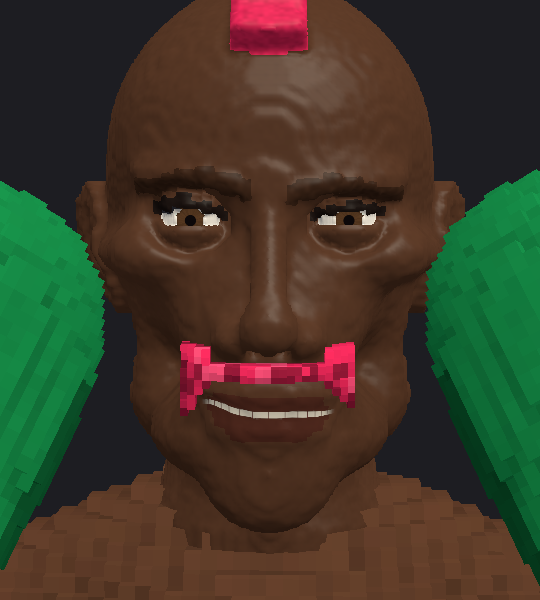
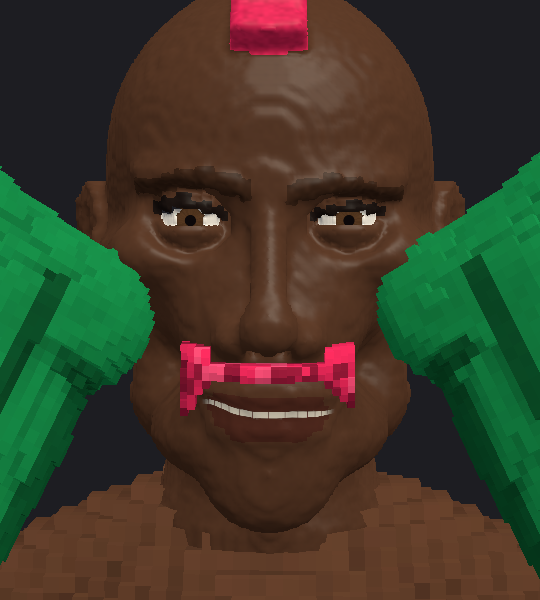
Эмоции соперников: замер A/B с чередованием (EmotionBench), seed 77 с мимикой и без, снимки поверх рук и тела, отчёт EMOTIONS.md

diff --git a/Unity/Assets/Game/Editor/EmotionShots.cs b/Unity/Assets/Game/Editor/EmotionShots.cs
@@ -240,5 +240,82 @@ namespace VoxGame.Editor
             EmotionsLog = log.ToString().TrimEnd();
             Debug.Log(EmotionsLog);
         }
+
+        // Замер A/B «без мимики | с мимикой» с чередованием (как ARMS-BODY.md): 6 боёв в порядке без, с, с, без, без, с,
+        // по 40 ударов; кадр удара — lastHitFrameMs, кадр боя — d.Tick без удара, отрисовка 1080×2400 с ожиданием GPU каждый 5-й кадр.
+        // Отдельно — своё время мимики (FoeFace.Tick + Apply) и выделения памяти на него за 3000 кадров.
+        public static void EmotionBench(int hits = 40)
+        {
+            bool wasA = AnatFace.Enabled, wasF = FoeFace.Enabled;
+            var log = new StringBuilder();
+            var hit = new Dictionary<bool, List<double>> { { false, new List<double>() }, { true, new List<double>() } };
+            var frame = new Dictionary<bool, List<double>> { { false, new List<double>() }, { true, new List<double>() } };
+            var rend = new Dictionary<bool, List<double>> { { false, new List<double>() }, { true, new List<double>() } };
+            var tris = new Dictionary<bool, int> { { false, 0 }, { true, 0 } };
+            try
+            {
+                int r = 0;
+                foreach (bool on in new[] { false, true, true, false, false, true })
+                {
+                    AnatFace.Enabled = on; FoeFace.Enabled = on;
+                    var h1 = new List<double>(); var f1 = new List<double>(); var r1 = new List<double>();
+                    var d = NewFight(out var bcam, out _, 6f, 4f);
+                    d.SetViewSize(1080, 2400);
+                    var rt = new RenderTexture(1080, 2400, 24, RenderTextureFormat.ARGB32);
+                    var px = new Texture2D(1, 1, TextureFormat.RGB24, false);
+                    var run = new Run { d = d };
+                    run.Ticks(90);
+                    tris[on] = d.Head.Triangles;
+                    var combo = new[] { PunchType.Hook, PunchType.Jab, PunchType.Upper, PunchType.Jab };
+                    int got = 0, tries = 0;
+                    var tsw = new System.Diagnostics.Stopwatch();
+                    while (got < hits + WarmHits && tries < hits * 4 && !d.Finished)
+                    {
+                        tries++;
+                        run.WaitOpen(150);
+                        int seq = d.hitFrameSeq;
+                        run.Punch(combo[tries % combo.Length], tries % 2 == 0 ? 1 : -1);
+                        run.Tick();
+                        if (d.hitFrameSeq != seq) { if (got >= WarmHits) h1.Add(d.lastHitFrameMs); got++; }
+                        for (int i = 0; i < 20; i++)
+                        {
+                            int s2 = d.hitFrameSeq;
+                            tsw.Restart(); d.Tick(DT); tsw.Stop();
+                            if (d.hitFrameSeq == s2 && got > WarmHits) f1.Add(tsw.Elapsed.TotalMilliseconds);
+                            if (i % 5 == 0 && got > WarmHits)
+                            {
+                                bcam.targetTexture = rt; RenderTexture.active = rt;
+                                tsw.Restart(); bcam.Render(); px.ReadPixels(new Rect(0, 0, 1, 1), 0, 0); tsw.Stop();
+                                bcam.targetTexture = null; RenderTexture.active = null;
+                                r1.Add(tsw.Elapsed.TotalMilliseconds);
+                            }
+                        }
+                    }
+                    log.AppendLine("EMO_BENCH run=" + (r++) + " on=" + on + " hits=" + h1.Count + " hitFrame " + Dist(h1) + " | fightFrame " + Dist(f1) + " | render " + Dist(r1));
+                    hit[on].AddRange(h1); frame[on].AddRange(f1); rend[on].AddRange(r1);
+                    // своё время мимики в этом же бою (только «с»)
+                    if (on && r == 2)
+                    {
+                        var ff = d.FoeMimic; var st = d.State;
+                        for (int i = 0; i < 200; i++) { ff.Tick(DT, st); ff.Apply(d.Head); }
+                        long b0 = System.GC.GetAllocatedBytesForCurrentThread();
+                        tsw.Restart();
+                        for (int i = 0; i < 3000; i++) { if (i % 90 == 0) ff.OnHit(i % 3, false, (int)AnatZone.Cheek, false, false, 1); ff.Tick(DT, st); ff.Apply(d.Head); }
+                        tsw.Stop();
+                        long b1 = System.GC.GetAllocatedBytesForCurrentThread();
+                        log.AppendLine("EMO_BENCH face Tick+Apply " + (tsw.Elapsed.TotalMilliseconds / 3000).ToString("0.0000") + " ms/frame, alloc " + (b1 - b0) + " B / 3000 frames");
+                    }
+                    rt.Release(); Object.DestroyImmediate(rt); Object.DestroyImmediate(px);
+                    EndFight(d);
+                }
+            }
+            finally { AnatFace.Enabled = wasA; FoeFace.Enabled = wasF; AnatFace.Off(); }
+            foreach (bool on in new[] { false, true })
+                log.AppendLine("EMO_BENCH on=" + on + " headTris=" + tris[on] + " hitFrame " + Dist(hit[on]) + " | fightFrame " + Dist(frame[on]) + " | render " + Dist(rend[on]));
+            EmotionsLog = log.ToString().TrimEnd();
+            var p = Path.GetFullPath(Path.Combine(Application.dataPath, "..", "Logs", "emo-bench.txt"));
+            File.WriteAllText(p, EmotionsLog);
+            Debug.Log(EmotionsLog);
+        }
     }
 }

diff --git a/Unity/EMOTIONS.md b/Unity/EMOTIONS.md
@@ -1,15 +1,149 @@
-# Эмоции соперников (мимика) — WIP
+# Эмоции соперников (мимика)
 
-Ветка `claude/foe-emotions-343e1d`. Трекер: `goals voxel-boxing` дважды ответил «Quota exceeded» — цель «Эмоции соперников» не создана, повторить.
+Ветка `claude/foe-emotions-343e1d`, поверх `origin/main` с руками и телом (`cd8088f`) и плашкой удара (`d7f8aff`). Цель в трекере «Эмоции соперников» создана и взята (`ruslan`); этап и пост в канал — за сессией слияния.
 
-## Пауза 26.11
+## Что сделано
 
-**Прочитано и решено.** Мимика — деформация вершин в шейдере `Anatomy` от позы покоя (как изгиб шеи `AnatSkin`): решётка вокселей и модель повреждений не меняются, поэтому выбитое не «отрастает», на уцелевшем мимика остаётся, перестройки сеток нет, seed 77 по ударам и кускам не должен сдвинуться. Тела головы получают роль по номеру: мягкая голова (брови, веки поворотом вокруг глаза — скользят по яблоку, щёки, нос, губы, челюсть под швом губ), нижняя челюсть и нижние зубы (поворот вокруг оси суставов), глаза (взгляд, расфокус), верхние зубы жёстко; оторванные куски (тело ≥ 100) не двигаются. Открытый рот рисуется на растянутых гранях шва губ (полость, верхние и нижние зубы, выбитый зуб — щель). На лице грани не склеиваются (`AnatMesher.StyleFace`), иначе длинные прямоугольники не гнутся — это меняет число треугольников головы при включённой мимике.
+13 выражений: спокойное, сосредоточенное, злость, оскал, ухмылка, удивление, боль, оглушён, страх, усталость, торжество, поражение, презрение. Каждое — набор из 24 каналов: брови (внутренний и внешний край слева и справа, свод), веки (верхние и нижние), взгляд и расфокус, челюсть (открытие и сдвиг вбок), углы рта, ширина рта, верхняя и нижняя губа, сжатие губ, нос, щёки. Фоном идут моргание (частота по характеру), дыхание ртом (чаще и глубже при усталости), блуждание взгляда. Выражения смешиваются пружинами с критическим затуханием, поэтому переходы без скачков. У события есть приоритет и длительность: слабое не перебивает сильное, нокдаун, нокаут и финал держатся до снятия. По окончании события лицо возвращается к настрою покоя, который зависит от характера и здоровья.
 
-**Сделано (код компилируется, не закоммичено до этой паузы):**
-- `Assets/Probe/Runtime/Anatomy/AnatFace.cs` — 13 выражений (спокойное, сосредоточенное, злость, оскал, ухмылка, удивление, боль, оглушён, страх, усталость, торжество, поражение, презрение), 24 канала, смесь пружинами без скачков, событие с приоритетом и длительностью, фон (моргание, дыхание ртом, взгляд), характеры `AnatTemper.Presets` (8), `Deform` на C# = функция `Face` в шейдере.
-- `Shaders/Anatomy.shader` — `Face()` до `Skin()`, рисунок рта; `AnatMesher`/`AnatSkin`(`InFace`)/`AnatRender` — `StyleFace`; `AnatView` — `AnatFace.Off()` у новой головы.
-- Игра: `FoeFace.cs` (события боя → выражения), вызовы в `FightDirector.cs`, `FighterGen.TemperOf` (характер по прозвищу), `HeadGear.cs` — борода в две части, нижняя ходит с челюстью (`SetJaw`). `FoeBody.cs` не тронут.
-- Снимки: `Assets/Game/Editor/EmotionShots.cs` (лист, характеры, повреждённая голова, бой). Первый лист `Shots/emotions/sheet.png` снят и просмотрен: выражения различимы крупным планом; размах после этого увеличен (челюсть, губы, углы рта, брови), подъём века уменьшен (поднятое веко открывало дыру над яблоком).
+**Способ.** Мимика — деформация вершин в шейдере `VoxProbe/Anatomy` от позы покоя, до изгиба шеи (`Skin`). Решётка вокселей и модель повреждений не меняются. Поэтому выбитое не «отрастает», уцелевшее продолжает двигаться, перестройки сеток в кадре нет, а результат ударов (seed 77) тот же. Тело головы получает роль по номеру:
+- мягкая голова: брови, веки (поворот вокруг центра глаза, скользят по яблоку), щёки, нос, губы, челюсть под швом губ;
+- нижняя челюсть с нижними зубами: поворот вокруг оси суставов;
+- глаза: взгляд и расфокус;
+- верхние зубы: жёстко.
 
-**Следующий шаг:** открыть редактор worktree (закрылся сам), снять `EmotionShots` целиком и проверить глазами с боевой дистанции; тесты на эмоции (каждое выражение меняет геометрию, переход без скачка, событие → выражение, повреждение не восстанавливается); полные тесты ×2; seed 77 (с `AnatFace.Enabled=false` и с мимикой); замер кадра до/после; отчёт.
+Оторванные куски не двигаются. Открытый рот рисуется на растянутых гранях шва губ: полость, верхние и нижние зубы, на месте выбитого зуба щель. На лице грани не склеиваются (`AnatMesher.StyleFace`), иначе длинные прямоугольники не гнутся; это добавляет около 180 треугольников целой голове.
+
+## Где параметры
+
+| Что | Где |
+|---|---|
+| Выражения (позы каналов), размеры смещений, пружина, моргание, дыхание | `Assets/Probe/Runtime/Anatomy/AnatFace.cs` — `AnatFace.Poses`, константы `BrowUp…Cheek`, `omega` |
+| Характеры (8 предустановок) | там же, `AnatTemper.Presets`, рядом с `AnatLook` |
+| Характер бойца лестницы | `FighterGen.TemperOf` (по прозвищу, разброс силы и моргания по хешу) |
+| Событие боя → выражение | `Assets/Game/Runtime/Presentation/FoeFace.cs` |
+| Деформация на GPU | `Shaders/Anatomy.shader`, функция `Face()` (числа размеров дублируются литералами — менять в обоих местах) |
+| Выключатели для замеров | `AnatFace.Enabled`, `FoeFace.Enabled` |
+
+## Событие → выражение
+
+| Событие боя | Выражение (приоритет) | Затем |
+|---|---|---|
+| джеб в голову | боль слабая, сильнее в глаз или нос (2) | злой — злость, задира — иногда ухмылка |
+| силовой удар | боль (3); глаз со стороны удара зажмурен сильнее | в челюсть или встречный — оглушён; иначе страх, злость или сосредоточенное по характеру |
+| мега, перелом, сила ≥ 2 | боль с рывком (4) | оглушён 1,5 с |
+| игрок промахнулся или попал в блок | ухмылка или презрение по характеру, иначе сосредоточенное (2) | — |
+| свой удар попал | торжество (пробил блок или шоумен) или ухмылка (2); в блок — злость или сосредоточенное | — |
+| игрок увернулся | нервный — удивление, остальные — злость (2) | — |
+| замах | злость (злые) или сосредоточенное (1) | — |
+| выпад | оскал (злые) или сосредоточенное (1) | — |
+| мало здоровья | настрой: усталость, у нервных при почти нуле — страх; дыхание ртом; мелкие события слабее | — |
+| нокдаун | оглушён, держится (5) | подъём: усталость, затем злость или страх |
+| нокаут | оглушён, держится (6) | — |
+| финал | торжество или поражение (7) | — |
+
+## Характеры
+
+| Характер | Покой | Ухмылка | Злость | Страх | Показ | Бойцы лестницы |
+|---|---|---|---|---|---|---|
+| хладнокровный | сосредоточенное | 0,3 | 0,2 | 0,15 | 0,2 | Лёд, Призрак |
+| задира | ухмылка | 1,0 | 0,4 | 0,3 | 0,8 | Кулак, Гром |
+| злой | злость | 0,2 | 1,0 | 0,2 | 0,5 | Огонь, Медведь |
+| шоумен | ухмылка | 0,7 | 0,3 | 0,4 | 1,0 | Рыцарь |
+| нервный | страх | 0,2 | 0,3 | 1,0 | 0,4 | Лом |
+| угрюмый | сосредоточенное | 0,1 | 0,6 | 0,3 | 0,2 | Зубр |
+| зверь | злость | 0,3 | 0,9 | 0,1 | 0,7 | Молот, Волк |
+| каменный | спокойное | 0,15 | 0,2 | 0,1 | 0,15 | Утёс |
+
+## Тесты
+
+Новые: `AnatomyFaceTests` (6) и `FoeFaceTests` (5).
+- `EachExpressionDistinct`: каждое выражение двигает лицо. Самая близкая пара — сосредоточенное и злость, 0,94 мм RMS; наибольший сдвиг от 5,7 мм (сосредоточенное) до 21 мм (удивление).
+- `TransitionsSmooth`: удар посреди ухмылки, оскал, удивление, нокдаун, скачок усталости. Шаг точки за кадр 1/60 до 3,49 мм, за 1/240 до 0,88 мм. Шаг уменьшается вместе с кадром, значит скачков нет.
+- `BlinkContinuous`: шаг канала века за кадр до 0,43.
+- `PriorityAndDuration`: проверка приоритета и длительности.
+- `DamageStaysAndNoAlloc`: решётка, треугольники и грязные чанки не меняются от мимики, 0 байт за 600 кадров, с оторванной челюстью канал челюсти 0.
+- `ShaderMovesFace`: рендер меняется на 4–5 % пикселей лица.
+- `FoeFaceTests`: удар, сила и место, насмешки по характеру, нокдаун, подъём, нокаут и финал, мало здоровья, разнообразие характеров в лестнице.
+
+Полные прогоны (редактор, поверх свежего `main`):
+
+| Прогон | VoxGame | Анатомия |
+|---|---|---|
+| 1 | 240 / 0 | 70 / 1 (`StumpMuscleLayersRender`) |
+| 2 | 240 / 0 | 70 / 1 (`StumpMuscleLayersRender`) |
+| 3 (анатомия отдельно) | — | 71 / 0 |
+| 4 (анатомия отдельно) | — | 71 / 0 |
+
+Прежде было 232 и 65; добавились 5 + 6 моих тестов и 3 + 0 из `main`.
+
+**Причина «нестабильного» `StumpMuscleLayersRender` найдена, она не от мимики.** `FightDirector` (уже в `main`, строка `AnatSkin.on = true`) включает изгиб шеи и не выключает его. Если тесты анатомии идут в том же редакторе после тестов игры, `Pick` в сценарии seed 77 идёт по согнутой шее, и выходит 75 ударов вместо 78 («Expected: 78 But was: 75»). Отдельно тест проходит и с мимикой, и без неё. Лечение: сбрасывать `AnatSkin.on`, `pose`, `recoil` в `FightDirector.Dispose` или в начале теста. Чужой файл, я не правил — это предложение для следующей задачи.
+
+## Seed 77 (`AnatShotsB2.Run`, `AnatSkin.on=false`)
+
+| | без мимики | с мимикой |
+|---|---|---|
+| удары | 78 | 78 |
+| треугольники по стадиям | 147 880 / 149 586 / 157 850 / 156 238 / 51 928 | **148 018** / 149 586 / 157 850 / 156 238 / 51 928 |
+| треугольники кусков | 75 212 | 75 212 |
+| целая голова | 131 858 | 132 042 |
+
+Удары, куски и культя — как в задании. С мимикой +138 треугольников на первой стадии, пока лицо цело: грани лица не склеиваются (`StyleFace`). После стадии «лицо» разница пропадает.
+
+## Время (A/B с чередованием, как в ARMS-BODY.md)
+
+`ShotsTaker.EmotionBench()`: 6 боёв в порядке без, с, с, без, без, с, по 40 ударов (3 на прогрев не в зачёт). Выключались `AnatFace.Enabled` и `FoeFace.Enabled`. Кадр удара — `lastHitFrameMs`, кадр боя — `d.Tick` без удара, отрисовка 1080×2400 с ожиданием GPU. Средние, мс:
+
+| | без мимики | с мимикой | Δ |
+|---|---|---|---|
+| кадр боя (2 805 кадров) | 3,22 (прогоны 3,38 / 3,28 / 3,00) | 3,09 (3,20 / 3,25 / 2,83) | −0,13, шум |
+| кадр удара (120) | 26,75 (28,2 / 26,4 / 25,6) | 25,91 (26,6 / 27,1 / 24,0) | −0,84, шум |
+| отрисовка | 6,62 | 5,91 | шум |
+| своё время мимики `FoeFace.Tick + Apply` | — | **0,0055 мс за кадр, 0 байт за 3 000 кадров** | |
+
+Разброс между прогонами одного варианта (±0,3 мс кадра боя, ±2 мс кадра удара) больше разницы «без/с». Прямой замер собственного кода — 0,0055 мс, это далеко в пределах +0,5 / +1 мс. Шейдерная деформация — около 50 операций на вершину головы только при `_FaceOn`. На отрисовке разницы не видно.
+
+## Снимки (`Shots/emotions/`)
+
+- `sheet.png` и `emo-<ключ>.png` — 13 выражений бойца 9 крупно.
+- `tempers.png` и `temper-N-c.png` — бойцы 4 (задира), 7 (нервный), 8 (злой) × покой, промах игрока, свой удар попал.
+- `damaged.png` — после 5 ударов в рот, щёку и бровь: спокойное, оскал, боль. Выбитое на месте, треугольники 155 626 до и после выражений.
+- Бой, поверх новых рук и тела, портрет 1080×2340:
+  - `fight-hit.png` — боль: зажмурился, зубы, w = 0,82;
+  - `fight-taunt.png` — торжество, широкий оскал;
+  - `fight-low-hp.png` — здоровье 0,21, ведущее «усталость», кровь;
+  - `fight-hit-land.png` — 2340×1080.
+
+Все просмотрены.
+
+## Что не сделано и что заметно
+
+- `Pick` и точка удара считаются по позе покоя лица, без мимики. Смещения до 2 см у рта при открытой челюсти; на попадание в голову это не влияет, точка крови может сдвинуться на пару вокселей.
+- Борода в две части: нижняя ходит с челюстью. При широко открытом рте у полной бороды видна щель по линии шва.
+- Беглые события у пика вида (замах, выпад) короткие: на снимке с боевой дистанции их видно хуже, чем боль и торжество.
+- Подъём верхнего века ограничен (`LidWide` 0,07): часть яблока под веком не построена в сетке, сильнее — чёрная дыра.
+- `StumpMuscleLayersRender` после тестов игры — см. выше (`AnatSkin.on` из `FightDirector`).
+
+## Тронутые файлы
+
+Свои: `AnatFace.cs`, `FoeFace.cs`, `EmotionShots.cs`, `AnatomyFaceTests.cs`, `FoeFaceTests.cs`.
+
+Чужие, минимально:
+- `Anatomy.shader` (`Face()`, рисунок рта);
+- `AnatMesher.cs` (`StyleFace`);
+- `AnatSkin.cs` (`AnatBend.InFace`);
+- `AnatRender.cs` (стиль лица);
+- `AnatView.cs` (`AnatFace.Off()` у новой головы);
+- `FightDirector.cs` (вызовы событий, `Tick/Apply`, `SetJaw`);
+- `FighterGen.cs` (`TemperOf`);
+- `HeadGear.cs` (борода в две части, `SetJaw`).
+
+Не тронуты: `FoeBody.cs`, `BoxerParts.cs`, `GloveLooks.cs`, `VoxModel.cs`, физика боя.
+
+## Повторить
+
+```bash
+unity command script eval --code 'VoxGame.Editor.ShotsTaker.EmotionShots(); return VoxGame.Editor.ShotsTaker.EmotionsLog;' ...
+unity command script eval --code 'VoxGame.Editor.ShotsTaker.EmotionBench(); return "ok";' ...   # Logs/emo-bench.txt
+unity command test run --filter "AnatomyFaceTests" ... ; --filter "FoeFaceTests"
+```
